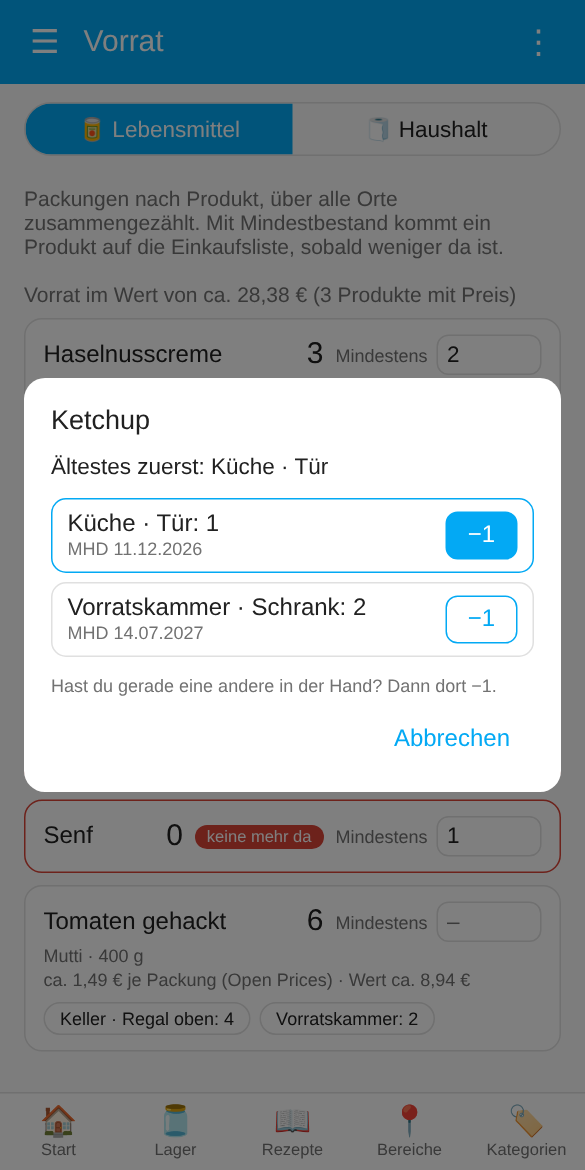
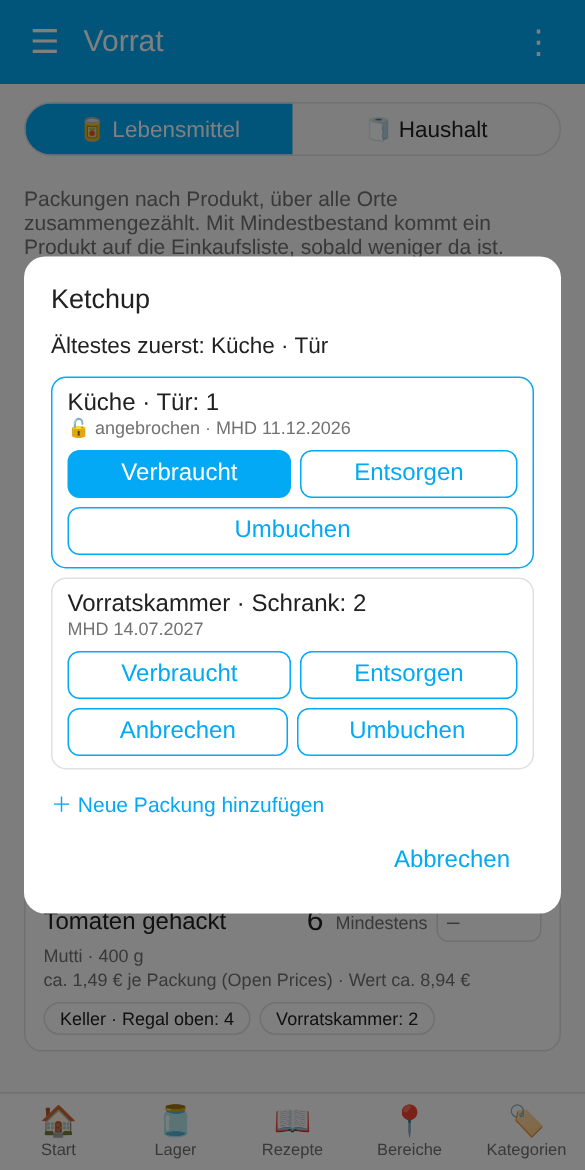
4.2.0: Block 22 – Strichcode-Dialog
- Gefundenes Produkt: je Ort Verbraucht, Entsorgen, Anbrechen, Umbuchen
  (jeweils eine Packung); Entsorgen schreibt einen Verlaufseintrag
  "weggeworfen" mit Wert (neuer WS-Befehl larder/pack_take)
- "Neue Packung hinzufügen" vorbelegt mit Name, Marke, Strichcode, Preis
  und dem Ort mit den meisten Packungen
- Haushaltsartikel: "−1 Stück", kein Anbrechen
- Nicht gefunden: unverändert
- Doku, Screenshot, Tests

Closes #95

Claude-Session: https://claude.ai/code/session_01Q3qkotbUKKo9rH8nVuWDPZ

Changed region(s): [[0.0308, 0.2154, 0.9846, 0.6462], [0.0308, 0.6462, 0.9846, 0.8]]

diff --git a/custom_components/larder/frontend/larder-dashboard-items.js b/custom_components/larder/frontend/larder-dashboard-items.js
@@ -99,7 +99,6 @@ const TEXT = {
     openedMark: "🔓 angebrochen",
     codeScan: "📷 Strichcode",
     codeOldest: (place) => `Ältestes zuerst: ${place}`,
-    codeOther: "Hast du gerade eine andere in der Hand? Dann dort −1.",
     codeNone: (name) => `${name || "Dieses Produkt"} ist nicht im Vorrat.`,
     codeAdd: "Als Packung anlegen",
     codeLink: "🔗 Mit Produkt im Vorrat verknüpfen",
@@ -110,8 +109,15 @@ const TEXT = {
     codeLinkFailed: "Verknüpfen fehlgeschlagen.",
     codeLinked: (name) => `Strichcode mit ${name} verknüpft.`,
     codeUnknown: (code) => `Zu ${code} wurde nichts gefunden.`,
-    codeTake: "−1",
-    codeTaken: (place) => `Eine Packung aus ${place} entnommen.`,
+    codeUsed: "Verbraucht",
+    codeUsedPiece: "−1 Stück",
+    codeThrown: "Entsorgen",
+    codeOpen: "Anbrechen",
+    codeMove: "Umbuchen",
+    codeNewPack: "Neue Packung hinzufügen",
+    codeUsedDone: (place) => `Eine Packung aus ${place} verbraucht.`,
+    codeUsedPieceDone: (place) => `Ein Stück aus ${place} entnommen.`,
+    codeThrownDone: (place) => `Eine Packung aus ${place} entsorgt.`,
     codeDate: (d) => `MHD ${d}`,
     noDate: "ohne MHD",
     stockEarliest: (d) => `frühestes MHD ${d}`,
@@ -228,7 +234,6 @@ const TEXT = {
     openedMark: "🔓 opened",
     codeScan: "📷 Barcode",
     codeOldest: (place) => `Oldest first: ${place}`,
-    codeOther: "Holding another one right now? Take it from there with −1.",
     codeNone: (name) => `${name || "This product"} is not in stock.`,
     codeAdd: "Add as a pack",
     codeLink: "🔗 Link to a product in stock",
@@ -239,8 +244,15 @@ const TEXT = {
     codeLinkFailed: "Linking failed.",
     codeLinked: (name) => `Barcode linked to ${name}.`,
     codeUnknown: (code) => `Nothing found for ${code}.`,
-    codeTake: "−1",
-    codeTaken: (place) => `Took one pack from ${place}.`,
+    codeUsed: "Used up",
+    codeUsedPiece: "−1 piece",
+    codeThrown: "Thrown away",
+    codeOpen: "Open",
+    codeMove: "Move",
+    codeNewPack: "Add a new pack",
+    codeUsedDone: (place) => `One pack from ${place} used up.`,
+    codeUsedPieceDone: (place) => `Took one piece from ${place}.`,
+    codeThrownDone: (place) => `One pack from ${place} thrown away.`,
     codeDate: (d) => `best before ${d}`,
     noDate: "no best-before date",
     stockEarliest: (d) => `earliest best before ${d}`,
@@ -369,27 +381,52 @@ export function installItems(Dashboard, { el, isAdmin, listAreas, todoLists, DOM
       this._overlay.hidden = false;
       return res;
     }
+    // found: every place (opened and oldest first), each with what can be done with one pack there
     const list = el("div", "codelist");
     res.entries.forEach((entry, i) => {
+      const hh = entry.kind === "household";
       const row = el("div", `coderow${i === 0 ? " oldest" : ""}`);
       const text = el("span", "text");
       text.append(
         el("span", "name", `${placeName(entry, t)}: ${entry.count}`),
-        el("span", "sub", [entry.opened ? t.openedMark : null, entry.best_before ? t.codeDate(fmtDate(hass, entry.best_before)) : t.noDate].filter(Boolean).join(" · ")),
+        el("span", "sub", [entry.opened ? t.openedMark : null, hh ? null : entry.best_before ? t.codeDate(fmtDate(hass, entry.best_before)) : t.noDate].filter(Boolean).join(" · ")),
       );
-      const take = button(i === 0 ? "primary" : "", t.codeTake, async () => {
-        take.disabled = true;
-        await this._takeOne(entry);
+      const take = (outcome, done) => async (ev) => {
+        ev.currentTarget.disabled = true;
+        await this._takeOne(entry, outcome);
         this._closeDialog();
-        this.showNotice(t.codeTaken(placeName(entry, t)));
+        this.showNotice(done(placeName(entry, t)));
         if (this._view === "stock") this.loadStock();
-      });
-      take.dataset.role = "code-take";
-      row.append(text, take);
+      };
+      const used = button(i === 0 ? "primary" : "", hh ? t.codeUsedPiece : t.codeUsed, take("eaten", hh ? t.codeUsedPieceDone : t.codeUsedDone));
+      used.dataset.role = "code-take";
+      const thrown = button("", t.codeThrown, take("thrown", t.codeThrownDone));
+      thrown.dataset.role = "code-thrown";
+      const actions = el("div", "codeactions");
+      actions.append(used, thrown);
+      if (!hh && !entry.opened) {
+        const open = button("", t.codeOpen, () => this.openOpenDialog(entry.device_id));
+        open.dataset.role = "code-open";
+        actions.append(open);
+      }
+      const move = button("", t.codeMove, () => this.openMoveDialog(entry.device_id));
+      move.dataset.role = "code-move";
+      actions.append(move);
+      row.append(text, actions);
       list.append(row);
     });
-    const parts = [el("h2", "", res.name), el("p", "lead", t.codeOldest(placeName(res.entries[0], t))), list];
-    if (res.entries.length > 1) parts.push(el("p", "hint", t.codeOther));
+    const known = res.known;
+    // the price goes into the price field (editable), the rest of the product data stays with the row
+    const { price: knownPrice, ...knownProduct } = (known && known.product) || {};
+    const another = button("link", `＋ ${t.codeNewPack}`, () =>
+      this.openItemsDialog(known && known.kind === "household" ? "household" : "pack", {
+        rows: [{ content: (known && known.content) || res.name, quantity: 1, product: knownProduct, price: knownPrice }],
+        area_id: known && known.area_id,
+        compartment: known && known.compartment,
+      }),
+    );
+    another.dataset.role = "code-new";
+    const parts = [el("h2", "", res.name), el("p", "lead", t.codeOldest(placeName(res.entries[0], t))), list, another];
     parts.push(buttonsRow(close));
     form.replaceChildren(...parts);
     this._submit = null;
@@ -441,15 +478,22 @@ export function installItems(Dashboard, { el, isAdmin, listAreas, todoLists, DOM
   };
 
   /** Take one pack: count −1, the last one empties the entry (as eaten). */
-  proto._takeOne = async function _takeOne(entry) {
+  proto._takeOne = async function _takeOne(entry, outcome = "eaten") {
     const hass = this._hass;
+    try {
+      // one pack used up or thrown away; thrown away gets its own history entry (statistics, value)
+      await hass.callWS({ type: `${DOMAIN}/pack_take`, device_id: entry.device_id, outcome });
+      return;
+    } catch {
+      /* fall back to setting the count directly */
+    }
     const row = this._rows().find((r) => r.id === entry.device_id);
     if (entry.count > 1 && row && row.dev.entities.number) {
       await hass.callService("number", "set_value", { entity_id: row.dev.entities.number, value: entry.count - 1 });
       return;
     }
     try {
-      await hass.callWS({ type: `${DOMAIN}/empty`, device_id: entry.device_id, outcome: "eaten" });
+      await hass.callWS({ type: `${DOMAIN}/empty`, device_id: entry.device_id, outcome });
     } catch {
       if (row && row.dev.entities.button) await hass.callService("button", "press", { entity_id: row.dev.entities.button });
     }

diff --git a/docs/demo/dashboard.html b/docs/demo/dashboard.html
@@ -240,8 +240,10 @@ const hass = {
       ? { id: "b2", summary: "Klopapier (Zewa, 2 Packungen)", content: "Klopapier", kind: "household", product: { brand: "Zewa", pack_size: 8, piece: "Rollen" }, area_id: "bath", compartment: "Schrank", count: 2 }
       : { id: "b2", summary: "Toilet paper (Zewa, 2 packs)", content: "Toilet paper", kind: "household", product: { brand: "Zewa", pack_size: 8, piece: "rolls" }, area_id: "bath", compartment: "Cupboard", count: 2 }] : [] };
     if (msg.type === "larder/stock_code") return de
-      ? { code: msg.code, name: "Ketchup", entries: [{ device_id: "demo12", area: "Küche", compartment: "Tür", count: 1, best_before: day(25) }, { device_id: "demo12", area: "Vorratskammer", compartment: "Schrank", count: 2, best_before: day(240) }] }
-      : { code: msg.code, name: "Ketchup", entries: [{ device_id: "demo12", area: "Kitchen", compartment: "Door", count: 1, best_before: day(25) }, { device_id: "demo12", area: "Pantry", compartment: "Cupboard", count: 2, best_before: day(240) }] };
+      ? { code: msg.code, name: "Ketchup", entries: [{ device_id: "demo12", area: "Küche", compartment: "Tür", count: 1, best_before: day(25), opened: day(-3), kind: "pack" }, { device_id: "demo12", area: "Vorratskammer", compartment: "Schrank", count: 2, best_before: day(240), kind: "pack" }],
+          known: { content: "Ketchup", kind: "pack", product: { brand: "Heinz", package: "500 ml", ean: msg.code, price: 1.99 }, area_id: "pantry", compartment: "Schrank" } }
+      : { code: msg.code, name: "Ketchup", entries: [{ device_id: "demo12", area: "Kitchen", compartment: "Door", count: 1, best_before: day(25), opened: day(-3), kind: "pack" }, { device_id: "demo12", area: "Pantry", compartment: "Cupboard", count: 2, best_before: day(240), kind: "pack" }],
+          known: { content: "Ketchup", kind: "pack", product: { brand: "Heinz", package: "500 ml", ean: msg.code, price: 1.99 }, area_id: "pantry", compartment: "Cupboard" } };
     if (msg.type === "larder/stock") return { shopping_list: true, value: 28.38, valued: 3, lead_days: 7, products: (de ? [
       { key: "haselnusscreme", name: "Haselnusscreme", count: 3, min: 2, low: false, brand: "Nutella", package: "450 g", places: [{ device_id: "demo13", area: "Keller", compartment: "Regal oben", count: 3 }] },
       { key: "ketchup", name: "Ketchup", count: 3, min: 4, low: true, brand: "Heinz", package: "500 ml", earliest: day(25), places: [{ device_id: "demo12", area: "Küche", compartment: "Tür", count: 1, best_before: day(25) }, { device_id: "demo12", area: "Vorratskammer", compartment: "Schrank", count: 2, best_before: day(240) }] },

diff --git a/custom_components/larder/frontend/larder-dashboard-style.js b/custom_components/larder/frontend/larder-dashboard-style.js
@@ -161,6 +161,9 @@ export const STYLE = `
     background: var(--primary-color); color: var(--text-primary-color, #fff); }
   .dialog .codelist { display: flex; flex-direction: column; gap: 6px; }
   .dialog .coderow { display: flex; align-items: center; gap: 10px; padding: 8px 10px; border: 1px solid var(--divider-color); border-radius: 10px; }
+  .dialog .codelist:not(.placelist) .coderow { flex-direction: column; align-items: stretch; gap: 8px; }
+  .dialog .codeactions { display: flex; flex-wrap: wrap; gap: 6px; }
+  .dialog .codeactions button { flex: 1 1 auto; }
   .dialog .coderow.oldest { border-color: var(--primary-color); }
   .dialog .coderow .text { flex: 1; display: flex; flex-direction: column; min-width: 0; }
   .dialog .coderow .sub { font-size: 12px; color: var(--secondary-text-color); }

diff --git a/custom_components/larder/stock.py b/custom_components/larder/stock.py
@@ -855,14 +855,83 @@ async def async_find_by_code(hass: HomeAssistant, code: str) -> dict[str, Any]:
         "code": digits,
         "name": name,
         "entries": [
-            {k: p[k] for k in ("device_id", "area", "compartment", "count", "best_before", "opened")} for p in found
+            {k: p[k] for k in ("device_id", "area", "area_id", "compartment", "count", "best_before", "opened", "kind")}
+            for p in found
         ],
         # unknown in the stock: data for "add as a pack"
         "product": product,
+        # found: what "＋ New pack" is prefilled with (product data, kind and where it already is)
+        "known": _known_product(found, digits) if found else None,
         # food, beauty, product or petfood: anything but food is offered as a household item
         "product_type": lookup.get("product_type") if lookup.get("found") else None,
         "error": lookup.get("error"),
     }
+
+
+def _known_product(found: list[dict[str, Any]], code: str) -> dict[str, Any]:
+    first = found[0]
+
+    def value(key: str) -> Any:
+        return next((p[key] for p in found if p.get(key)), None)
+
+    product = {k: v for k in ("brand", "package", "piece", "price") if (v := value(k))}
+    if (size := max(p.get("pack_size", 1) for p in found)) > 1:
+        product["pack_size"] = size
+    ean = next((p["ean"] for p in found if p.get("ean")), None) or (code if len(code) >= 8 else None)
+    if ean:
+        product["ean"] = ean
+    # the place where most of it already is
+    place = max(found, key=lambda p: p["count"])
+    return {
+        "content": first["content"],
+        "kind": first["kind"],
+        "product": product,
+        "area_id": place.get("area_id"),
+        "compartment": place.get("compartment", ""),
+    }
+
+
+async def async_take_one(hass: HomeAssistant, cc: str, outcome: str) -> dict[str, Any]:
+    """Take one pack (or one piece of a household item): used up ("eaten") or thrown away ("thrown").
+
+    Both count as consumption (the stock goes down either way). Thrown away also gets a history entry for this
+    one pack, so statistics and the value thrown away include it; the last one empties the entry as usual.
+    """
+    from .history import async_get_history, build_record  # noqa: PLC0415 - avoids an import cycle
+
+    entry = next((e for e in hass.config_entries.async_entries(DOMAIN) if e.data.get(CONF_CC) == cc), None)
+    source = next((p for p in pack_entries(hass) if p["cc"] == cc), None)
+    if entry is None or source is None:
+        raise HomeAssistantError(translation_domain=DOMAIN, translation_key="move_invalid")
+    history = await async_get_history(hass)
+    if source["count"] <= 1:
+        button = er.async_get(hass).async_get_entity_id("button", DOMAIN, f"{cc}_empty_container")
+        history.set_pending(cc, outcome)
+        try:
+            await hass.services.async_call("button", "press", {"entity_id": button}, blocking=True)
+        finally:
+            history.pop_pending(cc)
+        return {"left": 0}
+    if outcome == "thrown":
+        product = {k: source[k] for k in ("brand", "package", "ean", "price") if source.get(k)}
+        history.add(
+            build_record(
+                cc=cc,
+                name=entry.title,
+                content=source["content"],
+                quantity=1,
+                unit="pieces",
+                area=source["area"],
+                filled_at=None,
+                best_before=source["best_before"],
+                outcome="thrown",
+                compartment=source["compartment"],
+                product=product,
+                kind=source["kind"],
+            )
+        )
+    await entry.runtime_data.resettable["portions"].async_set_native_value(float(source["count"] - 1))
+    return {"left": source["count"] - 1}
 
 
 # ---------- WebSocket ----------
@@ -1017,6 +1086,27 @@ async def ws_product_list(hass: HomeAssistant, connection: websocket_api.ActiveC
     connection.send_result(msg["id"], {"list": stock.lists.get(product_key(msg["content"]))})
 
 
+@websocket_api.websocket_command(
+    {
+        vol.Required("type"): f"{DOMAIN}/pack_take",
+        vol.Required("device_id"): str,
+        vol.Optional("outcome", default="eaten"): vol.In(("eaten", "thrown")),
+    }
+)
+@websocket_api.async_response
+async def ws_pack_take(hass: HomeAssistant, connection: websocket_api.ActiveConnection, msg: dict[str, Any]) -> None:
+    """One pack used up or thrown away (barcode dialog, compartment view)."""
+    cc = _cc_of(hass, msg["device_id"])
+    try:
+        if not cc:
+            raise HomeAssistantError(translation_domain=DOMAIN, translation_key="move_invalid")
+        result = await async_take_one(hass, cc, msg["outcome"])
+    except HomeAssistantError as err:
+        connection.send_error(msg["id"], "take_failed", str(err))
+        return
+    connection.send_result(msg["id"], result)
+
+
 @websocket_api.websocket_command({vol.Required("type"): f"{DOMAIN}/running_low"})
 @websocket_api.async_response
 async def ws_running_low(hass: HomeAssistant, connection: websocket_api.ActiveConnection, msg: dict[str, Any]) -> None:
@@ -1118,6 +1208,7 @@ def async_setup_stock_websocket(hass: HomeAssistant) -> None:
     websocket_api.async_register_command(hass, ws_stock_shop)
     websocket_api.async_register_command(hass, ws_cook_again_action)
     websocket_api.async_register_command(hass, ws_product_list)
+    websocket_api.async_register_command(hass, ws_pack_take)
     websocket_api.async_register_command(hass, ws_running_low)
     websocket_api.async_register_command(hass, ws_running_low_action)
     domain_data[DATA_WS] = True

diff --git a/tests/test_block22.py b/tests/test_block22.py
@@ -1,0 +1,52 @@
+"""Tests Block 22 (4.2): barcode dialog – used up / thrown away per pack, prefill for a new pack."""
+
+from custom_components.larder.history import async_get_history
+from custom_components.larder.stock import async_get_stock
+from homeassistant.core import HomeAssistant
+from homeassistant.helpers import area_registry as ar
+
+from .test_block18 import _create
+from .test_disposable import _ws
+from .test_recipes import _eid, _setup, auto_enable_custom_integrations  # noqa: F401
+
+
+async def test_take_one_used_up_or_thrown_away(hass: HomeAssistant, hass_ws_client) -> None:
+    await _setup(hass, "AAAA")
+    cellar = ar.async_get(hass).async_create("Keller")
+    pack = (await _create(hass, hass_ws_client, "pack", [{"content": "Ketchup", "quantity": 3, "unit": "pieces", "product": {"brand": "Heinz", "ean": "4000000000001", "price": 1.99}}], cellar.id))[0]
+    number = _eid(hass, "number", pack["cc"])
+    history = await async_get_history(hass)
+    stock = await async_get_stock(hass)
+    # used up: −1, consumption, no history entry
+    res = await _ws(hass, hass_ws_client, type="larder/pack_take", device_id=pack["device_id"])
+    assert res["result"] == {"left": 2} and hass.states.get(number).state == "2.0"
+    assert history.list() == [] and sum(t["n"] for t in stock.takes) == 1
+    # thrown away: −1 and a history entry for this one pack (counts in the value thrown away)
+    res = await _ws(hass, hass_ws_client, type="larder/pack_take", device_id=pack["device_id"], outcome="thrown")
+    assert res["result"] == {"left": 1}
+    record = history.list()[0]
+    assert (record["content"], record["outcome"], record["quantity"], record["kind"], record["area"]) == ("Ketchup", "thrown", 1, "pack", "Keller")
+    assert record["product"]["price"] == 1.99
+    stats = await hass.services.async_call("larder", "get_statistics", {}, blocking=True, return_response=True)
+    assert stats["thrown"] == 1
+    # the last one empties the entry with the outcome
+    res = await _ws(hass, hass_ws_client, type="larder/pack_take", device_id=pack["device_id"], outcome="thrown")
+    await hass.async_block_till_done()
+    assert res["result"] == {"left": 0}
+    assert [r["outcome"] for r in history.list()] == ["thrown", "thrown"]
+    assert hass.states.get(number) is None  # pack removed
+
+
+async def test_barcode_result_has_kind_place_and_prefill(hass: HomeAssistant, hass_ws_client) -> None:
+    await _setup(hass, "AAAA")
+    areas = ar.async_get(hass)
+    fridge, cellar = areas.async_create("Kühlschrank"), areas.async_create("Keller")
+    await _create(hass, hass_ws_client, "pack", [{"content": "Ketchup", "quantity": 1, "unit": "pieces", "product": {"ean": "4000000000001"}}], fridge.id)
+    await _create(hass, hass_ws_client, "pack", [{"content": "Ketchup", "quantity": 4, "unit": "pieces", "product": {"brand": "Heinz", "price": 1.99, "ean": "4000000000001"}}], cellar.id)
+    res = await _ws(hass, hass_ws_client, type="larder/stock_code", code="4000000000001")
+    result = res["result"]
+    assert sorted((e["area_id"], e["kind"], e["count"]) for e in result["entries"]) == sorted([(fridge.id, "pack", 1), (cellar.id, "pack", 4)])
+    known = result["known"]
+    # prefill for "new pack": product data and the place with the most packs
+    assert (known["content"], known["kind"], known["area_id"]) == ("Ketchup", "pack", cellar.id)
+    assert known["product"]["ean"] == "4000000000001" and known["product"]["brand"] == "Heinz" and known["product"]["price"] == 1.99

diff --git a/docs/de/containers.md b/docs/de/containers.md
@@ -105,7 +105,14 @@ Ein Beutel funktioniert wie eine Dose (scannen, Portion entnehmen, **Geöffnet**
 
 **Preise und Wert.** Eine Packung kann einen **Preis** haben (eine Packung): im Packungs-Dialog, auf der Karte oder vom **📷 Kassenbon** gelesen. Larder merkt ihn sich je Produkt. Ohne eigenen Preis bekommen Packungen mit Strichcode eine Schätzung von [Open Prices](https://prices.openfoodfacts.org) (Open Food Facts, ODbL): den Median des letzten Jahres in Euro, markiert mit *(Open Prices)*. Die Karte einer Packung und die Vorrats-Ansicht zeigen den Preis je Packung, den Wert jedes Produkts und den **Gesamtwert**; Statistik und Monatsbericht ergänzen **ca. X € weggeworfen**.
 
-**Entnehmen per Strichcode.** Den Strichcode einer Packung mit **📷** (Startseite, Seite **Lager**) oder **📷 Strichcode** in der Vorrats-Ansicht scannen (Home Assistant App). Larder zeigt alle Orte, an denen das Produkt liegt, mit Anzahl und MHD, **das älteste zuerst**. Hast du gerade eine neuere in der Hand, nimmst du sie an ihrem Ort mit **−1**; die letzte Packung eines Eintrags leert ihn. Ist das Produkt nicht im Vorrat, lässt es sich gleich als Packung anlegen. Hast du das Produkt umbenannt, merkt sich Larder den Strichcode; Packungen ohne Strichcode verknüpfst du mit **🔗 Mit Produkt im Vorrat verknüpfen**.
+**Strichcode scannen.** Den Strichcode einer Packung mit **📷** (Startseite, Seite **Lager**) oder **📷 Strichcode** in der Vorrats-Ansicht scannen (Home Assistant App). Larder zeigt alle Orte, an denen das Produkt liegt, mit Anzahl und MHD, angebrochene und **das älteste zuerst**. Jeder Ort bietet, für eine Packung:
+
+- **Verbraucht**: −1 (Haushaltsartikel: ein Stück); die letzte Packung eines Eintrags leert ihn.
+- **Entsorgen**: −1, kommt als weggeworfen in den Verlauf und die [Statistik](dashboard.md#statistik), mit Wert.
+- **Anbrechen**: bricht die Packung an, auf Wunsch an einen anderen Ort (z. B. in den Kühlschrank), siehe [angebrochene Packungen](#vorrat).
+- **Umbuchen**: stellt sie an einen anderen Ort, ohne sie anzubrechen.
+
+**＋ Neue Packung hinzufügen** legt eine weitere Packung desselben Produkts an, vorbelegt mit Name, Marke, Strichcode, Preis und dem Ort, an dem das meiste davon liegt. Ist das Produkt nicht im Vorrat, lässt es sich gleich als Packung anlegen. Hast du das Produkt umbenannt, merkt sich Larder den Strichcode; Packungen ohne Strichcode verknüpfst du mit **🔗 Mit Produkt im Vorrat verknüpfen**.
 
 <p align="center"><img src="../images/dashboard-code-de.png" width="250" alt="Entnehmen per Strichcode"></p>
 

diff --git a/docs/en/containers.md b/docs/en/containers.md
@@ -105,7 +105,14 @@ A bag works like a container (scan it, take a portion, **Opened**, **Thawed**, r
 
 **Prices and value.** A pack can have a **price** (one pack): in the pack dialog, on the card, or read from the **📷 Receipt**. Larder remembers it per product. Without a price of your own, packs with a barcode get an estimate from [Open Prices](https://prices.openfoodfacts.org) (Open Food Facts, ODbL): the median of the last year in euro, marked *(Open Prices)*. The card of a pack and the stock view show the price per pack, the value of each product and the **total value**; the statistics and the monthly report add **about €X thrown away**.
 
-**Take by barcode.** Scan the barcode of a pack with **📷** (start page, **Storage** page) or **📷 Barcode** in the stock view (Home Assistant app). Larder shows every place where this product is, with count and best-before date, the **oldest first**. If you are holding a newer one, take it from its own place with **−1**; the last pack of an entry empties it. A product that is not in stock can be added as a pack right away. If you renamed the product, the barcode is remembered; packs added without a barcode can be linked with **🔗 Link to a product in stock**.
+**Scan a barcode.** Scan the barcode of a pack with **📷** (start page, **Storage** page) or **📷 Barcode** in the stock view (Home Assistant app). Larder shows every place where this product is, with count and best-before date, opened and **oldest first**. Each place offers, for one pack:
+
+- **Used up**: −1 (household items: one piece); the last pack of an entry empties it.
+- **Thrown away**: −1, recorded as thrown away in the history and [statistics](dashboard.md#statistics), with its value.
+- **Open**: opens the pack, optionally to another place (e.g. into the fridge), see [opened packs](#stock).
+- **Move**: puts it in another place without opening it.
+
+**＋ Add a new pack** adds another pack of the same product, filled in with name, brand, barcode, price and the place where most of it already is. A product that is not in stock can be added as a pack right away. If you renamed the product, the barcode is remembered; packs added without a barcode can be linked with **🔗 Link to a product in stock**.
 
 <p align="center"><img src="../images/dashboard-code-en.png" width="250" alt="Take by barcode"></p>
 

diff --git a/README.de.md b/README.de.md
@@ -31,6 +31,8 @@ Home-Assistant-Integration für wiederverwendbare Vorratsdosen: Inhalt und Haltb
 <img src="docs/images/dashboard-cards-de.png" width="250" alt="Karten mit allen Details">
 </p>
 
+> **Neu in 4.2:** der [Strichcode-Dialog](docs/de/containers.md#vorrat) zeigt, wo ein Produkt liegt, und bietet direkt *verbraucht*, *entsorgen*, *anbrechen*, *umbuchen* und *neue Packung hinzufügen*.
+>
 > **Neu in 4.1:** [mehrere Einkaufslisten](docs/de/kitchen.md#einkaufsliste) (Lebensmittel, Haushalt, je Produkt), [Haushalts-Statistik](docs/de/dashboard.md#statistik) mit Ausgaben je Monat, [Rückrufwarnungen](docs/de/containers.md#rückrufwarnungen) für Kosmetik und Bedarfsgegenstände.
 >
 > **Neu in 4.0:** [Haushaltsartikel](docs/de/containers.md#haushaltsartikel), Bereiche für Lebensmittel oder Haushalt, die Seite *Behälter* heißt jetzt **Lager**, Strichcodes aus Open Beauty / Products / Pet Food Facts. **Breaking Change:** Ordne nach dem Update deine Bereiche Lebensmitteln oder Haushalt zu, siehe [Lebensmittel oder Haushalt](docs/de/containers.md#lebensmittel-oder-haushalt-seit-40).

diff --git a/CHANGELOG.md b/CHANGELOG.md
@@ -3,6 +3,10 @@
 Release notes for every version, newest first. They are also used as the text of the GitHub releases
 (the workflow `release.yml` takes the section of the version in `manifest.json`).
 
+## 4.2.0
+
+- **Barcode dialog:** when a scanned product is in stock, every place (opened and oldest first) offers, for one pack, **Used up**, **Thrown away** (recorded in the history and statistics with its value), **Open** and **Move**. **＋ Add a new pack** adds another pack of the same product, prefilled with name, brand, barcode, price and the place where most of it is. Household items: *−1 piece* instead of *Used up*, no *Open*. Products not in stock: unchanged.
+
 ## 4.1.0
 
 - **Several shopping lists:** a default list for food and, optionally, one for household items (empty = the food list). Each product can get a list of its own (e.g. butcher, pharmacy) on its card or in the add dialog; it is remembered by product name. Emptying, minimum stock, running low, meal plan, *Time for … again?* and 🛒 all follow this; *Bought – add to stock* watches every list Larder wrote to.

diff --git a/README.md b/README.md
@@ -31,6 +31,8 @@ Home Assistant integration for reusable food storage containers: note what is in
 <img src="docs/images/dashboard-cards-en.png" width="250" alt="Cards with all details">
 </p>
 
+> **New in 4.2:** the [barcode dialog](docs/en/containers.md#stock) shows where a product is and offers *used up*, *thrown away*, *open*, *move* and *add a new pack* right there.
+>
 > **New in 4.1:** [several shopping lists](docs/en/kitchen.md#shopping-list) (food, household, per product), [household statistics](docs/en/dashboard.md#statistics) with spending per month, [recall warnings](docs/en/containers.md#recall-warnings) for cosmetics and consumer goods.
 >
 > **New in 4.0:** [household items](docs/en/containers.md#household-items), areas for food or household, the *Containers* page is now called **Storage**, barcodes from Open Beauty / Products / Pet Food Facts. **Breaking change:** after the update, assign your areas to food or household, see [Food or household](docs/en/containers.md#food-or-household-since-40).
